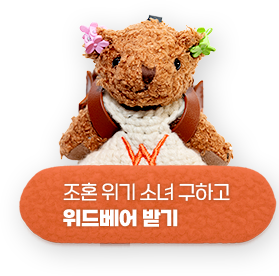
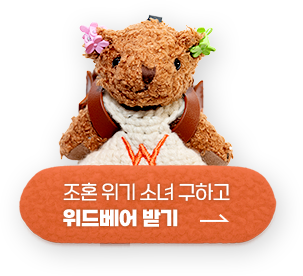
feat(1000girls): Floating Button 추가

diff --git a/apps/2025-1000girls-s2/src/styles/contents/floating.scss b/apps/2025-1000girls-s2/src/styles/contents/floating.scss
@@ -1,0 +1,51 @@
+.#{$app-name} {
+  .floating-button {
+    position: fixed;
+    z-index: 10;
+    top: 190px;
+    right: 15px;
+    transition:
+      transform 300ms ease,
+      filter 300ms ease;
+    width: 14vw;
+    min-width: 100px;
+    max-width: 206px;
+
+    &:hover {
+      filter: brightness(1.04) contrast(1.07);
+      animation: bounce 0.8s ease-in-out infinite;
+      animation-fill-mode: forwards;
+    }
+
+    @include screen("mobile") {
+      top: unset;
+      right: unset;
+      bottom: 0;
+      width: 100%;
+      min-width: auto;
+      max-width: none;
+      padding: 0 vw(17px);
+      a {
+        @include flex-only-center;
+        width: fit-content;
+        margin: 0 auto;
+      }
+      a > img.only-mo {
+        width: 100%;
+        max-width: 400px;
+      }
+    }
+  }
+}
+
+@keyframes bounce {
+  0% {
+    transform: translate3d(0, 0, 0);
+  }
+  50% {
+    transform: translate3d(0, -7px, 0);
+  }
+  100% {
+    transform: translate3d(0, 0, 0);
+  }
+}

diff --git a/apps/2025-1000girls-s2/src/includes/contents.html b/apps/2025-1000girls-s2/src/includes/contents.html
@@ -1,7 +1,7 @@
 <div class="floating-button">
   <a id="link-campaign-cta-floating" href="//my.worldvision.or.kr/support/?key=25-1000girls-wb&crmcd=71136">
-    <img class="only-pc" src="/images/button-floating.png" alt="조혼 위기 소녀 구하고 위드베어 받기" />
-    <img class="only-mo" src="/images/button-floating-m.png" alt="조혼 위기 소녀 구하고 위드베어 받기" />
+    <img class="only-pc" src="/images/btn-floating.png" alt="조혼 위기 소녀 구하고 위드베어 받기" />
+    <img class="only-mo" src="/images/btn-floating-m.png" alt="조혼 위기 소녀 구하고 위드베어 받기" />
   </a>
 </div>
 

diff --git a/apps/2025-1000girls-s2/src/styles/app.scss b/apps/2025-1000girls-s2/src/styles/app.scss
@@ -7,11 +7,6 @@
   margin: 0 auto;
   min-width: $min-width;
 
-  // FIXME: 스타일 추가 필요
-  .floating-button {
-    display: none;
-  }
-
   .section-bg {
     width: 100%;
     max-width: $max-width;

diff --git a/apps/2025-1000girls-s2/src/styles/style.scss b/apps/2025-1000girls-s2/src/styles/style.scss
@@ -40,6 +40,7 @@ $base-font-system:
 
 @import "app";
 
+@import "contents/floating";
 @import "contents/section1";
 @import "contents/section2";
 @import "contents/section3";
